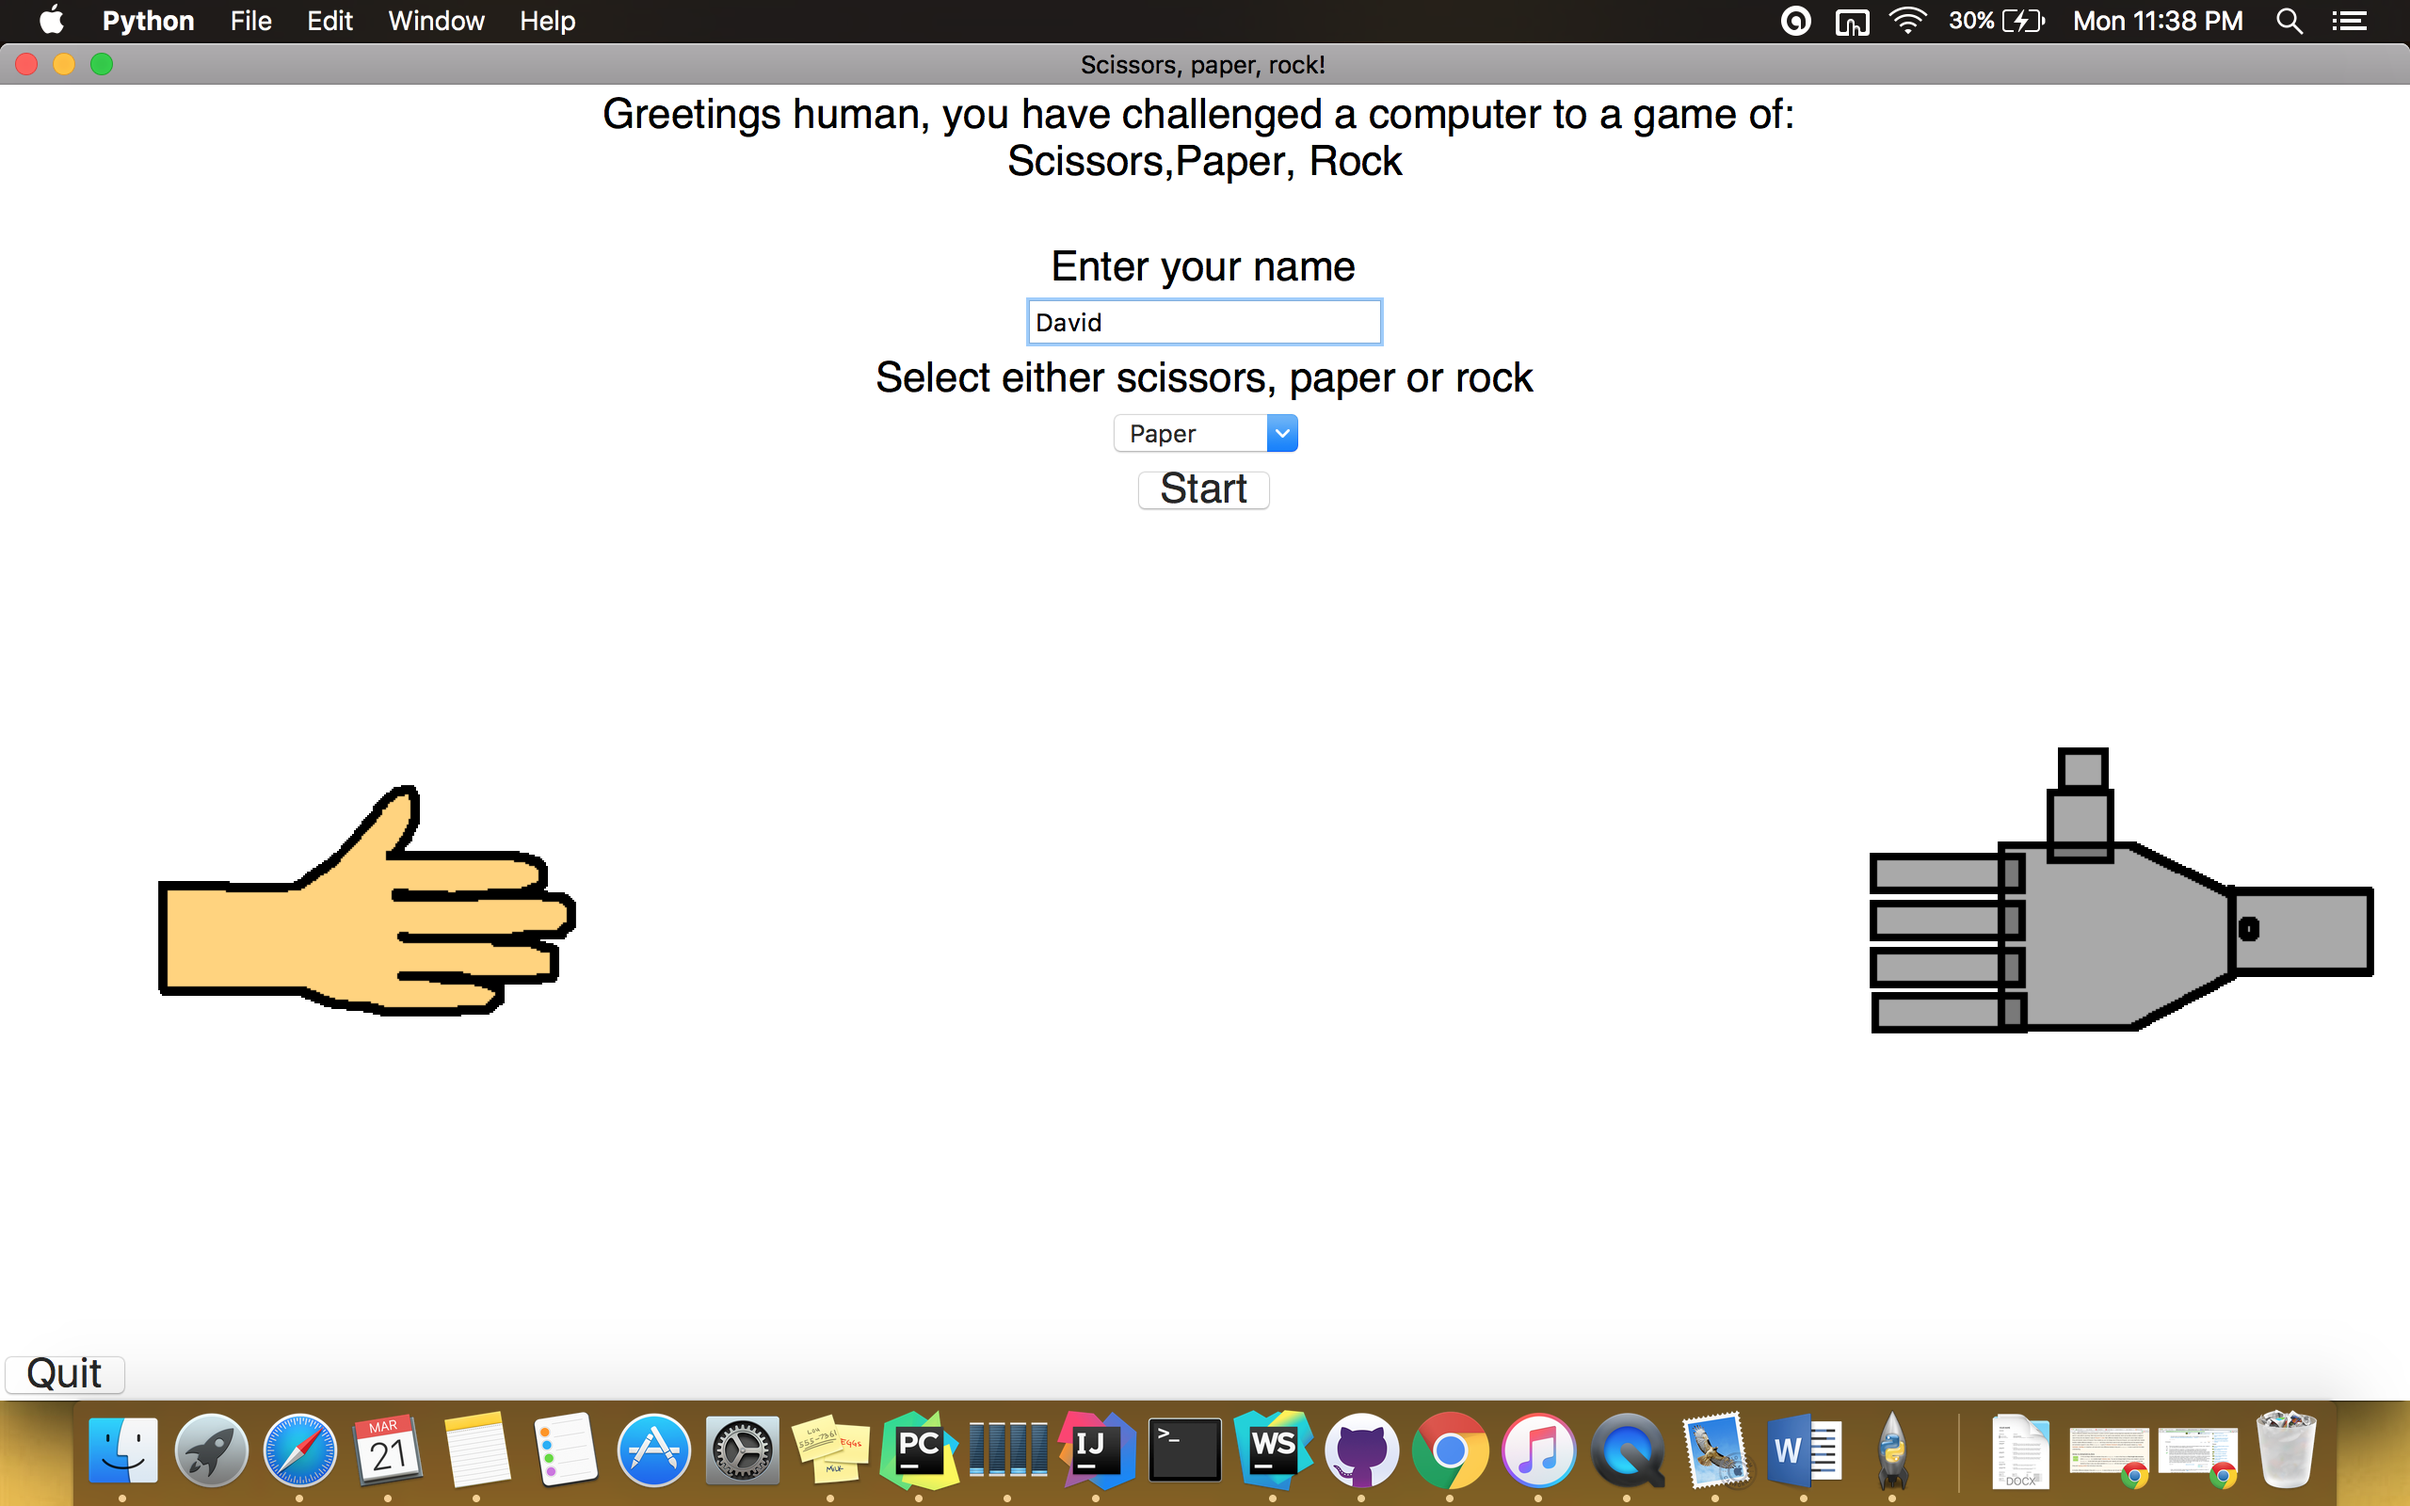
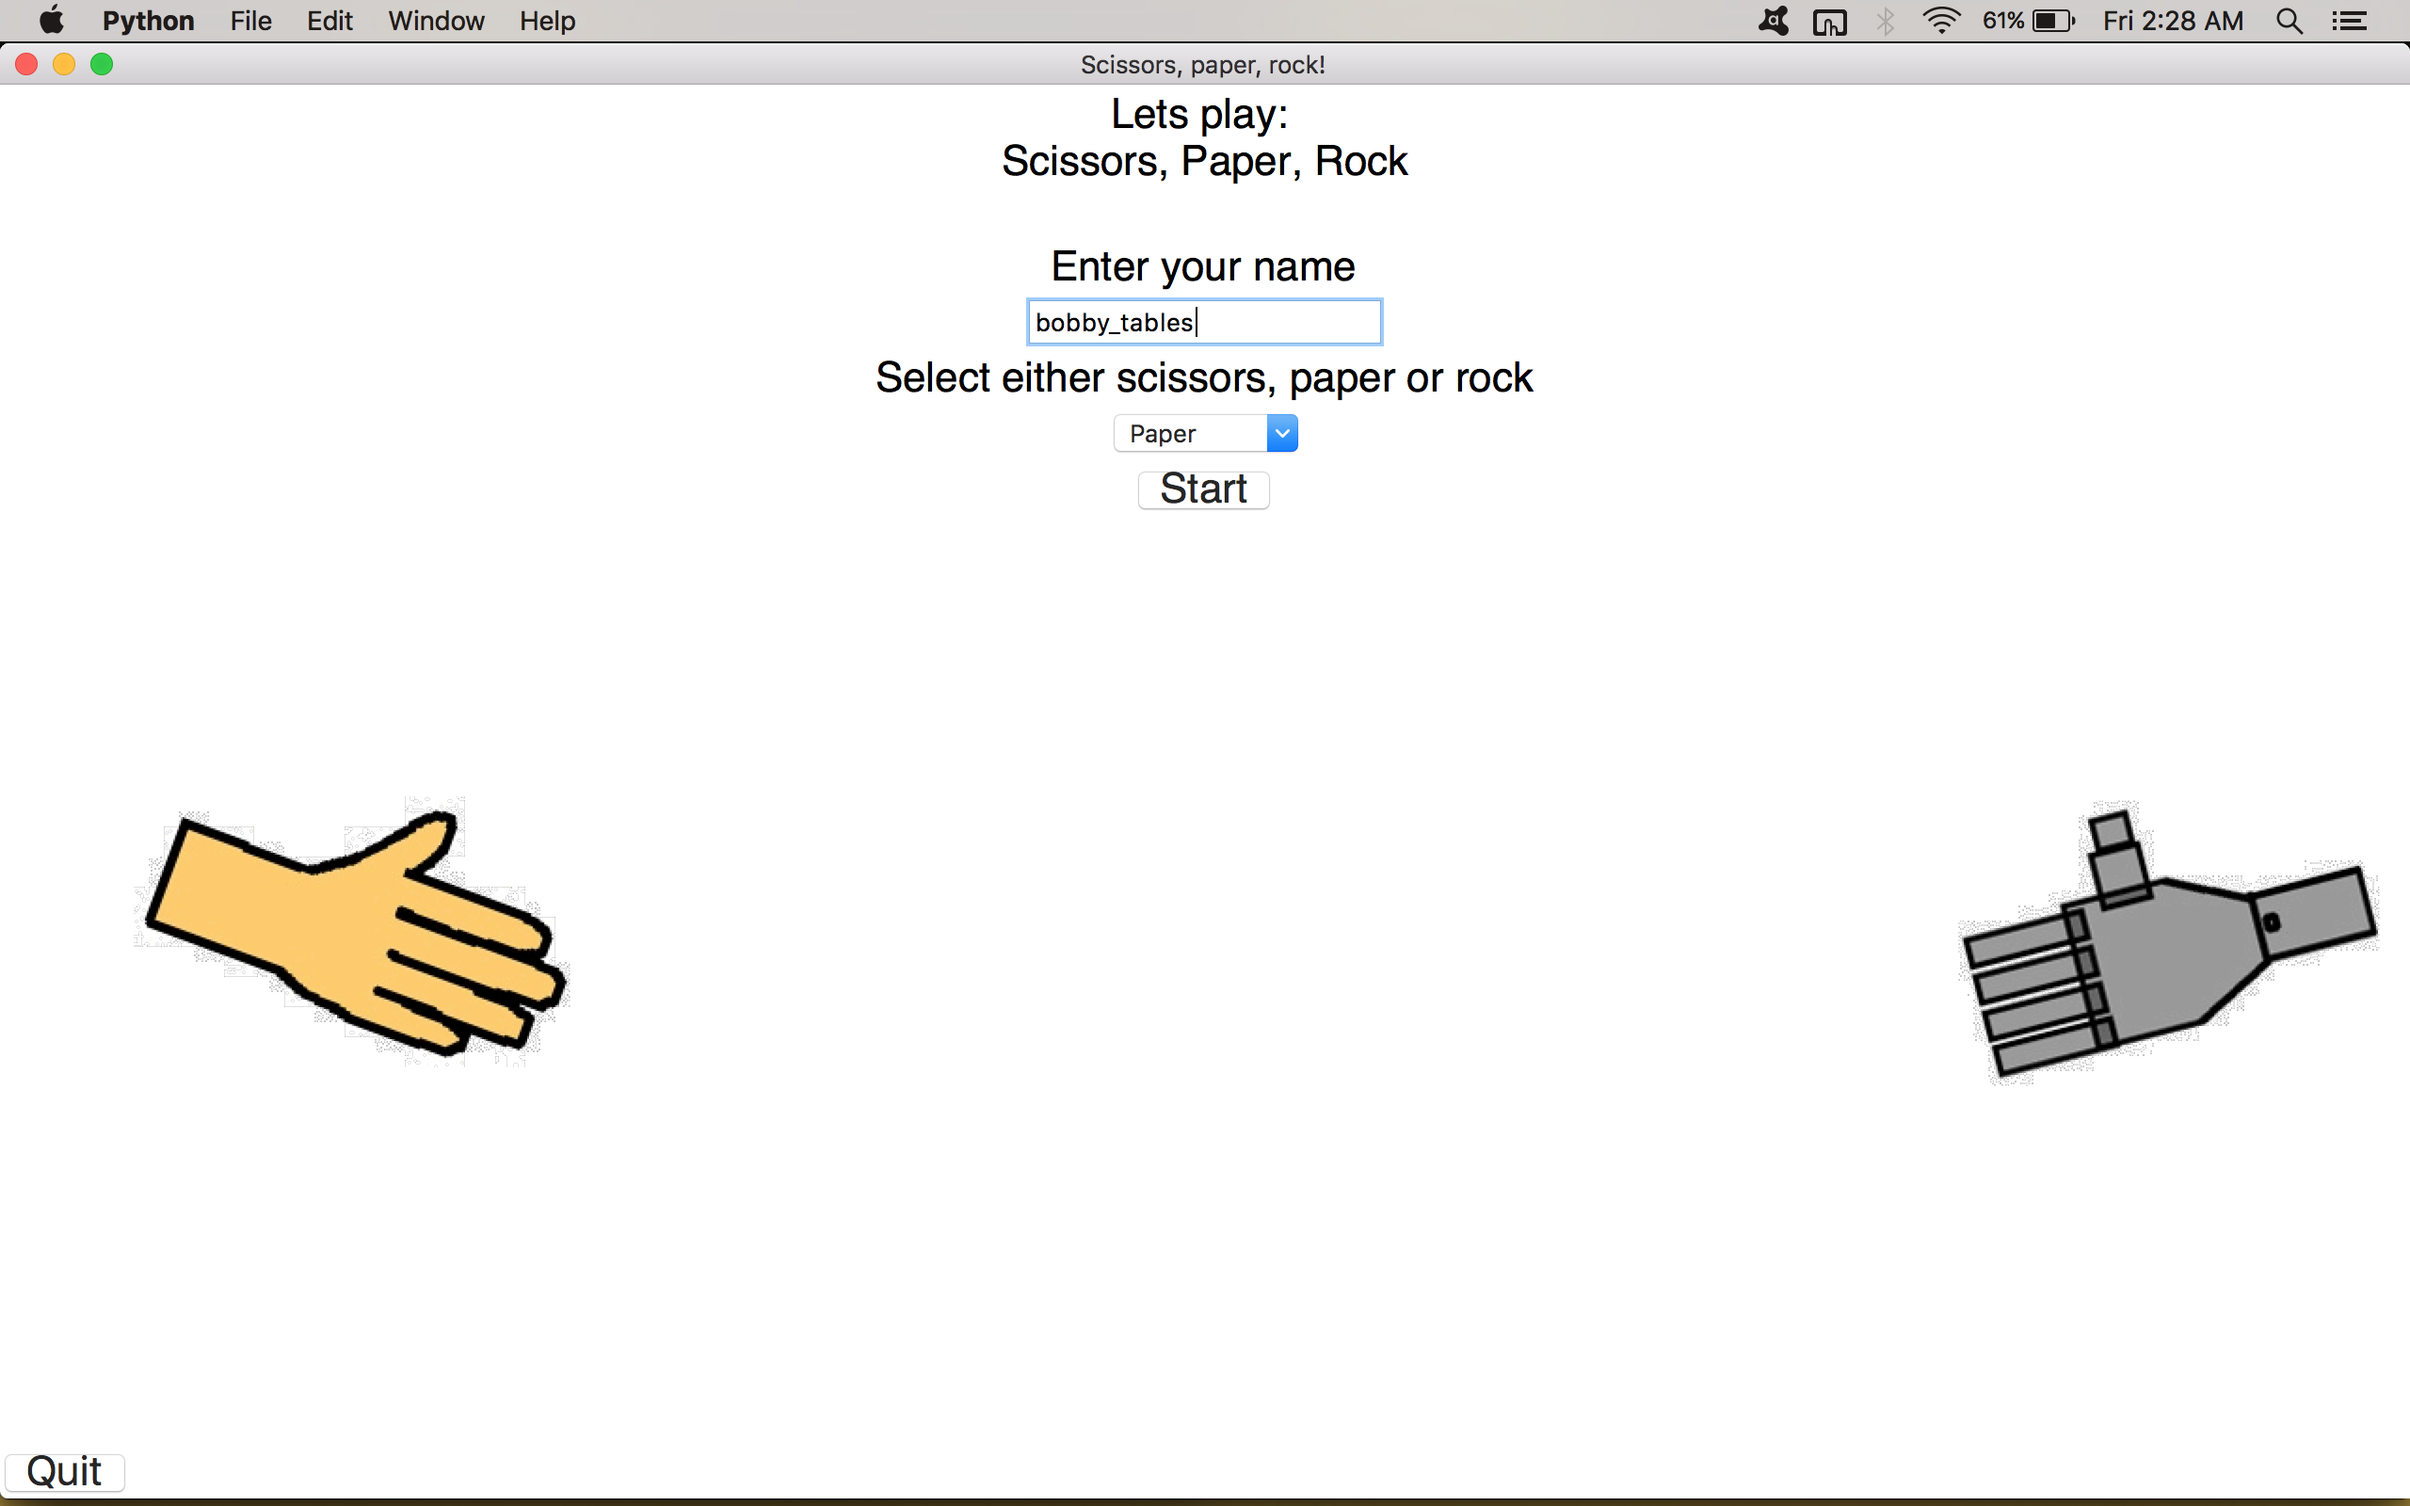
update scrns

diff --git a/Scissors_Paper_Rock/play.py b/Scissors_Paper_Rock/play.py
@@ -177,14 +177,14 @@ def main(player_move, playerName):
 
 
     winP1Label.config(text=str(playerName)+" chose " + str(myDictionary.get(player_move)), fg="black")
-    winP2Label.config(text="the_Computer chose " + str(myDictionary.get(computer_move)), fg ="black")
+    winP2Label.config(text="randomizer chose " + str(myDictionary.get(computer_move)), fg ="black")
 
     if result == "Draw":
         winText = result
     elif result == 1:
         winText = str(playerName) + " won !"
     else:
-        winText = " the_Computer won ! "
+        winText = " randomizer won ! "
 
     winnerLabel.config(text=winText, fg="red")
 
@@ -220,8 +220,8 @@ compMotion_c = tkinter.PhotoImage(file="Image_library/comp_hand1.2.gif")
 
 
 # player name label
-introLabel  = tkinter.Label(window, text="Greetings human, you have challenged a computer to a game of: \n"
-                                         "Scissors,Paper, Rock\n",font=('Helvetica', 22))
+introLabel  = tkinter.Label(window, text="Lets play: \n"
+                                         "Scissors, Paper, Rock\n",font=('Helvetica', 22))
 #playerLabel.pack(padx=0, pady=0, side=tkinter.LEFT )
 introLabel.pack()
 
@@ -238,7 +238,7 @@ playerNameInput = tkinter.Entry(window)
 playerNameInput.pack()
 
 playerNameInput.delete(0, tkinter.END)
-playerNameInput.insert(0, "new001")
+playerNameInput.insert(0, "bob")
 # playerName.get() to get name input
 
 # select label

diff --git a/README.md b/README.md
@@ -10,19 +10,30 @@ Built using Python 3 & tkinter (GUI package included in the standard library).
 
 ## Screens
 
+---
+
 <img src="Scissors_Paper_Rock/Screenshots/1.png" width="800" />
 
-<img src="Scissors_Paper_Rock/Screenshots/2.png" width="800" />
+---
 
 <img src="Scissors_Paper_Rock/Screenshots/2.png" width="800" />
+
+---
+
+<img src="Scissors_Paper_Rock/Screenshots/2.png" width="800" />
+
+---
 
 <img src="Scissors_Paper_Rock/Screenshots/3.png" width="800" />
 
+---
+
 <img src="Scissors_Paper_Rock/Screenshots/4.png" width="800" />
+
+---
 
 <img src="Scissors_Paper_Rock/Screenshots/5.png" width="800" />
 
-<img src="Scissors_Paper_Rock/Screenshots/6.png" width="800" />
 
 Some tkinter tutorials:
 
